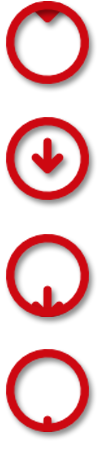
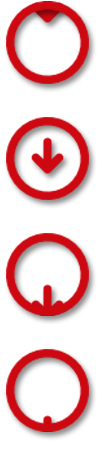
scrolldown

diff --git a/js/rog.js b/js/rog.js
@@ -34,6 +34,17 @@ $(function() {
     }
   });
 
+  $(document).on('click', '.scrolldown_container', function(event) {
+    event.preventDefault();
+    $('body').animate({
+      scrollTop: $('.team').offset().top
+    },
+    500,
+    function() {
+      /* stuff to do after animation is complete */
+    });
+  });
+
   var loadVideo = function(video_id) {
     if ( !YT_player || !YT_player.getIframe() ) {
       YT_player = new YT.Player('video_player', {
@@ -91,13 +102,28 @@ $(function() {
     var scrollTop = $(window).scrollTop();
 
     if ( sectionA_height <= winHeight + scrollTop ) {
-      $('.box-bage').addClass('stop');
+      $('.box-bage, .scrolldown_container').addClass('stop');
     } else {
-      $('.box-bage').removeClass('stop');
+      $('.box-bage, .scrolldown_container').removeClass('stop');
     }
   };
 
   bageHandler();
+
+  var scrolldownHandler = function() {
+    var bgPosition = parseInt($('.btn_scrolldown').css('background-position-y'));
+    var updateH = -91;
+
+    if ( bgPosition <= updateH*3 ) {
+      bgPosition = 0;
+    } else {
+      bgPosition = bgPosition + updateH;
+    }
+
+    $('.btn_scrolldown').css('background-position-y', bgPosition + 'px');
+  };
+
+  var scrolldownTimer = setInterval(function(){ scrolldownHandler(); }, 175);
 
 });
 

diff --git a/css/style.css b/css/style.css
@@ -665,13 +665,25 @@ body {
 .lightbox .country .stroe a.name:hover {
   color: #cb1c06;
 }
-.btn_scrolldown {
-  width: 175px;
-  height: 175px;
-  overflow: hidden;
-  /*background: url(../imgs/BTN_scrolldown.gif) no-repeat;*/
-  position: absolute;
-  left: 0;
-  top: 275px;
+.scrolldown_container {
+  position: fixed;
+  left: 10px;
+  bottom: 101px;
   z-index: 1;
+  cursor: pointer;
+}
+.scrolldown_container.stop {
+  position: absolute;
+}
+.btn_scrolldown {
+  width: 106px;
+  height: 91px;
+  overflow: hidden;
+  background: url(../imgs/sd_arrow.png) 0 0 no-repeat;
+}
+.scrolldown_text {
+  width: 106px;
+  height: 26px;
+  overflow: hidden;
+  background: url(../imgs/scroldown.png) no-repeat;
 }

diff --git a/home.html b/home.html
@@ -13,9 +13,12 @@
 
 <body>
   <div class="container">
-    <div class="btn_scrolldown"></div>
     <!--index-->
     <div class="index">
+      <div class="scrolldown_container">
+        <div class="btn_scrolldown"></div>
+        <div class="scrolldown_text"></div>
+      </div>
     <!--iip bage-->
     	<div class="box-bage">
         	<div class="bage"><img src="imgs/iipbage.png" width="84" height="113" alt=""/></div>
